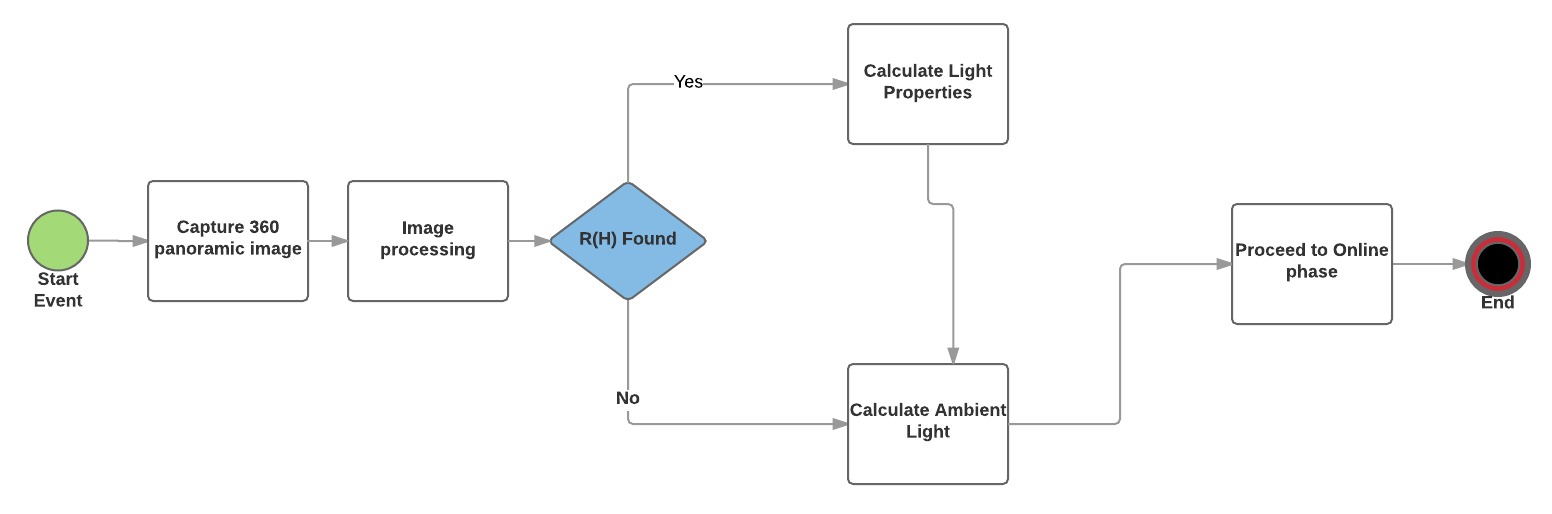
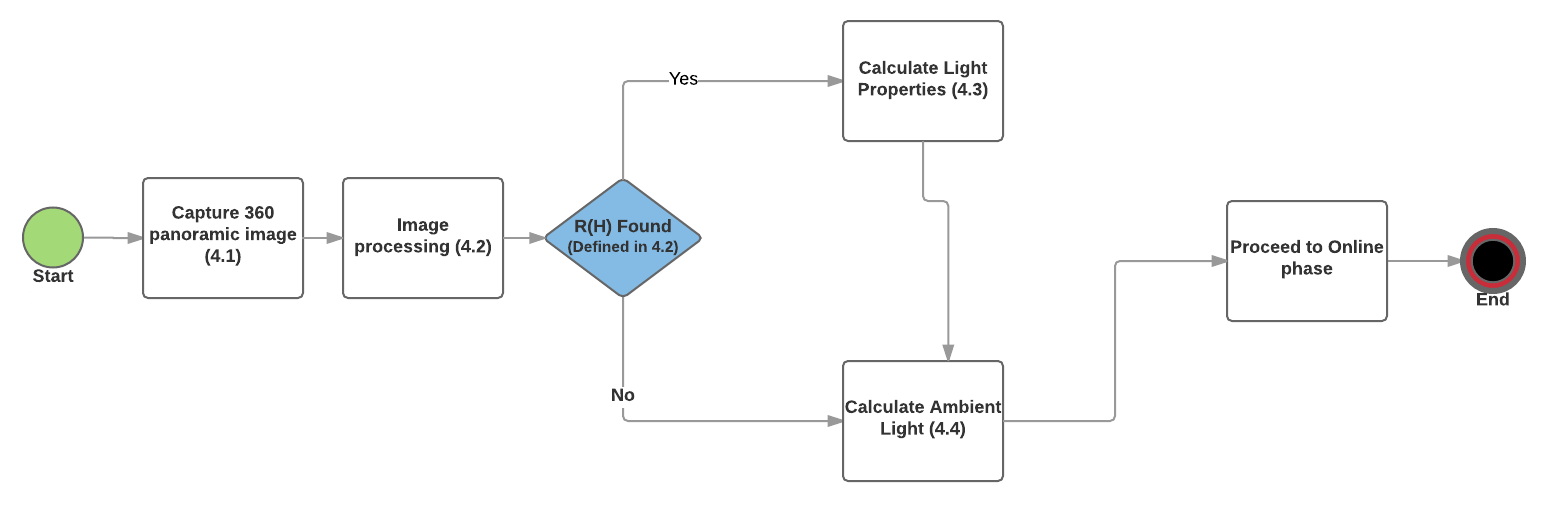
Separated main tex files into a file per section. Revision of the introduction and the method sections Revision of the flowchart image

diff --git a/Handins/Report/main.tex b/Handins/Report/main.tex
@@ -28,113 +28,22 @@
 \maketitle
 
 \section{Introduction}
-The rendering of virtual objects on current AR applications has a number of shortcomings in the state of the art. It is quite easy to tell that it’s a superimposed virtual object. There are many factors that come into play and give away the lack of feasibility of an AR object, such as marker jiggle, inaccurate depth cues, lack of occlusion from real life objects and incompatible lighting.
-The method proposed in this work addresses the latter problem, the non-matching light conditions of the virtual and real world. The method is based on the idea that a 360 photograph of the environment can give us a lot of information about the lighting conditions and that such 360 photographs are now simple to create on an average mobile device. From this 360 photograph it can be determined if the environment is outdoors by day or any other case of illumination. If the environment is indoors the light sources of the room will be approximated using the photo, if outdoors the sun will be assumed as the main source of light, and its position would be calculated using the clock, calendar and compass of the mobile device running the application. \newline
-Whatever the case, the method's output is a set of lights whose properties are a position relative to the camera, a rotation and an intensity.
-It's important to stress the fact that the method is proposed for mobile devices. There have been previous works, as detailed in the next section, that deal with the same problem but on computers. Mobile devices present advantages over computers for this task, but also the downside of generally lower processing power compared to computers. This decision comes from the ease of producing the 360 photographs locally, from the judgement that AR is better suited for mobile devices than computers (for mobility and ease of use reasons) and also to be able to exploit the devices geolocation hardware. Of course this doesn't mean that the method will only be applicable to mobile, there are also ways to adapt it to work on computers too.\newline
-The research question from which this method was originally envisioned is: "Can the accuracy of lighting in AR applications be improved using a mobile device to it's full potential?". What this means is that thanks to the many ways a smartphone or tablet can interact with the user and the environment we can know a lot about the surroundings. And this information could potentially be very useful to save computation time, which is the main downside to using mobile devices, their relatively lower computational capabilities.\newline
-The contributions of this method are:
-\begin{itemize}
-    \item An image-based method with which the lighting conditions of the full visible environment can be modeled
-    \item The use of the mobile device's geolocation hardware to enhance the light simulation with the knowledge of the current weather conditions and the position of the sun
-\end{itemize}
+\input{intro}
 
 
 \section{Related Work}
-Agusanto et al. proposed a similar method \cite{agusanto2003}. The main differences in the method they propose have to do mostly with the technologies used. Being already an old paper, their method was conceived for Augmented Reality on a computer, rather than on a smartphone. My choice of a smartphone comes with the downside of lower processing power, but with the great advantage of the different sensors available on the device. The method in the Agusanto paper infers the lighting conditions using hand-crafted HDR photographs of the real scene using highly reflective metal spheres in contrast with my proposition of using the 360 degree photograph on the device itself, which is a lot more accessible to an average consumer.\newline
-Pessoa\cite{pessoa2011} expanded on Agusanto's work and created the Real-Time Photorealistic Rendering of Synthetic Objects into Real Scenes (RPR-SORS) toolkit as an extension of the ARToolkit Augmented reality SDK. Although they use more modern techniques, such as cubemaps instead of HDR photographs, their approach still has the same differences than the Agusanto method.\newline
-There have been several methods to insert virtual objects into static photographs automatically with highly realistic results. One such example is the method by Karsh \cite{karsh2014} These kind of methods are not suitable for real- time applications, and they use a single view image to infer the lighting conditions. The method proposed here is more robust in the sense that it uses a 360 view of the environment to eliminate assumptions of what there is out of frame.\newline
-Xing\cite{xing2013} also devised a method to compose virtual objects into static photographs, focusing on outdoors scenes. The method is quite sophisticated, but a lot of the information fed to the light calculation functions involve manual input by the user. The proposed method is intended to work both for indoors and outdoors scenes, the main difference with the way outdoors scenes will be managed is that the method works automatically, without user intervention. This is accomplished by the usage of the mobile device's dedicated geolocation hardware. By using it, there is no need to assume anything or ask for any user input, the device will be able to tell a good approximation of the sun position using only the sensor's information.
+\input{relat}
 
 \section{Theoretical Framework}
-In this section a few technical concepts will be explored in order to make the proposed method and what it aims to accomplish more clear.
-
-\textbf{Augmented Reality}\newline
-As of yet, the definition of Augmented Reality that is most widely accepted is the one presented by Azuma\cite{azuma1997}. In this survey Augmented Reality (or AR for short) is defined as a software system that features a blend of real and virtual objects, the user can interact with it in real time and presents a 2D representation of a 3D world for both the real and virtual sides. A feature film that integrates real and virtual characters or objects is therefore strictly speaking not AR for example, because it's static content, the consumer cannot interact with it at all, let alone in real time.
-In order to combine real and virtual objects both worlds must be aligned, in the sense that they must share a common origin for both position and rotation. If the virtual objects present in the real scene are not aligned the feasibility of the whole composition is compromised. The tracking of real world features as a guideline for alignment in the virtual world is one of the challenges in the field of AR. There are many techniques that have been used, such as sensor-based tracking, that uses dedicated hardware to feed the software application the position and rotation information it needs; vision-based tracking, in which the position and orientation origin of the virtual world are determined by images recognized by a computer vision algorithm. These images are named fiducial markers and can be an artificial black and white image, a "natural" images (points, lines, shapes and/or textures) or even 3D objects. Other approaches involving both sensors and vision algorithms have also been used, if the reader is interested in learning more about tracking, Zhou's survey\cite{zhou2008} on tracking is a good resource.
-This method does not aim in any way to improve tracking for AR, current state-of-the-art methods will be used for that, but it's important to explain the concept a bit in order to settle the scope and expectations of the end result.
-
-\textbf{Sensors}\newline
-Most smartphones and tablets in the market nowadays have built-in sensors to measure many things that are helpful for application developers, such as motion, orientation and other environmental conditions. The ones that are relevant for this method are the following:\newline
-\textbf{Accelerometer}: This device measures proper acceleration relative to gravity. Its application in mobile development is to measure motion changes and to measure the device orientation relative to Earth's surface. It usually consists of 3 orthogonal axes. The output is given in m/s\textsuperscript{2} \newline
-\textbf{Gyroscope}: A sensor that is capable of measuring the rate of rotation around a particular axis. It serves the same purpose as the accelerometer, but mobile devices usually have both for more robust measurements. The output is given in rad/s. In the method these will be used to acquire the 360 panoramic photograph, making sure that the device is within the same pitch while capturing all the images that will be stitched together to make the panorama. \newline
-\textbf{Photometer}: There is a wide variability in terms of capacity of photometers across different devices, but the only measurement that is guaranteed is the ambient illuminance expressed in lx.  In the method it will be useful for detection of a noticeable change in ambient lighting, leading to a re-capture of the panorama. What exactly constitutes a noticeable change in ambient lighting will be determined through parameter tuning. \newline 
-\textbf{Magnetometer}: In terms of mobile devices it serves the purpose of a compass, it measures the device's orientation with respect to the Earth's magnetic poles. In mobile development it is useful to get the heading of the device expressed in degrees.\newline
-\textbf{GPS}: Measures the raw position of the device in three-dimensional Cartesian coordinates with origin on the center of the Earth. It can be used to determined where on planet Earth the device is located (Country, city, neighborhood, etc). It needs to have line of sight with no electromagnetic interference with at least 4 out of the 24 satellites in orbit that are used for GPS. \newline
+\input{theo}
 
 \section{Method}
-This section covers the steps needed to produce the wanted results. The input needed is a fiducial marker M to provide the object position in the real world; and a 3D mesh O which will be rendered in Augmented Reality. The output is a set of light sources L\textsubscript{i}, each one having a position, orientation, intensity, color and size. In order to complete the luminance (luma) analysis a 360 panoramic image is required, but it will be generated as a previous step, it is not necessary to have one beforehand. The entirety of the process is layed out in the flowchart in Figure 1, and each step is described in more detail afterwards.
+\input{method}
 
-\begin{figure}[H]
-  \centering
-  \setlength{\unitlength}{\textwidth} 
-    \begin{picture}(1,0.5)
-       \put(-0.1,0){\includegraphics[width=1.3\unitlength]{Figures/Flowchart.png}}
-       
-    \end{picture}
-    \caption{The method in a nutshell}
-\end{figure}
-
-\subsection{Panoramic image capture}
-In this work panoramic images are used as a tool, therefore it's not within the scope of the method to define a new way of capturing 360 images. The implementation will be based on the one by Chuang et al. \cite{ThreeSixty}
-In order to simplify the calculation of light parameters later on, a modification to their implementation will be done forcing the user to face north when beginning to take the panoramic capture.
-
-\subsection{Image processing}
-Once the panoramic image exist the first step in order to be able to analyze the luminance is to get rid of the chrominance information. This is achieved by desaturating the image. The contrast ratio has to be adjusted, so that the regions with high luminance are more clearly differentiable. The result of these steps is a black and white image with the rough shape of the light source. If the image ends up completely black it means there are no important visible light sources and ambient illumination alone would give a good enough result on the rendered model. A region of high luminance is defined as follows:
-\[
-    R(H) = \{p_{00}, p_{01}, ... , p_{mn}\}
-\]
- Where p\textsubscript{ij} is the pixel in the i,j position of the image. Such that 
-\[
-    L(p_{ij}) > 0.9 \times max(L(p_{ij})) 
-\]
-However if there are regions of high luminance they would be discovered with a fair amount of noise and artifacts, caused by clear objects, reflections of light sources on highly reflective surfaces, or even light sources that are so far away in the distance that don't really contribute an important amount of light to the area of interest. Therefore it's necessary to also add a relative size constraint to the definition. What constitutes an acceptable region size to deem the light source is not an easy question to answer. The best approach to face this problem is to define it as a percentage of the width and height of the overall image and tune the parameter in search for the best solution. The size constraint would therefore be:
-
-\[
-    width(R(H)) \times height(R(H)) \geq k \times W \times H
-\]
-Where k is the parameter to be tuned; W and H are the total image width and height.\newline
-
-These constraints also help keep the amount of lights to be processed within an acceptable range for a real-time application, even if the real environment has many light sources a simplification of them is necessary when modelling them to keep the application feasible. Once the relevant light sources have been identified their properties need to be calculated.
-
-\subsection{Calculate light properties}
-The properties needed to calculate for each light are position, orientation, intensity, size and color. In the real world there is no way to calculate the position and size at the same time, because at least one of them would have to be known. Fortunately in the virtual world this is not necessary, as long as it is consistent, for the area size of the light the pixel measures can be used. With this in mind all the other properties can be calculated.
-
-\begin{enumerate}
-\item Width and height: The pixel measures will be used for this, they can me determined from the size constraint in the previous step.
-\item Position: It is posible to calculate the distance from and object to a camera lens knowing a few parameters from the lens, namely the focal lenght and the sensor size. In Android these values are easily obtainable through the ExifInterface class. In iOS the values are publicly known per device family, so it's possible to create a lookup table with the values and have the application ask what device it's running on to match the necessary set of values. The calculation is then done as follows:
-\[
-    d(L_i) = \frac{ f \times h_i}{sensorHeight}
-\]
-\item  Orientation: Since the user was enforced to capture the environment starting from the north and the environment is the entire 360 degrees it is easy to map the pixel width to the angle of incidence of the light source. We can for example define the following ratio to calculate the angle:
-\[
-    \phi = \frac{pos(L_i)_x \times 180}{imageWidth \times 0.5}
-\]
-\item Color: Storing both versions of the panorama, one in full color and another one after processing will allow us to have both the color and the luminance information. Once a light source is detected, the equivalente area in the color image can be averaged to determine the color of the light source.
-\end{enumerate}
-
-\subsection{Calculate ambient light}
-Since the data from the device's sensors are available something more involved than having a default value of ambient illumination for the entire scene. Ambient illumination when no visible light sources are present is more often than not due to sunlight, be it in an outdoors scene or coming in from a window somewhere. There are ways \cite{solar} to calculate the sun position in spherical coordinates using the latitude, longitude, time of the day and day of the year of the observer. This information can be easily retrieved using the devices GPS, clock and calendar. The direction in which the sunlight is affecting the scene can be used in a per-vertex illumination shader to adjust the amount of ambient light in a specific vertex of the virtual object. This contribution can be done using lambertian diffuse contribution:
-\[
-    I_a = K_a \times (N \cdot L)
-\]
-Where $K_a$ is the maximum ambient contribution, N is the vertex normal and L is the light direction vector, normalized.
 \section{Expected results}
-In this section the measure of success and the scope of the method will be described. In terms of scope the aim of the method is to produce plausible lighting for Augmented Reality applications, and thus increase the sense of realism of the composed graphics. This does not mean that imagery that would for all practical purposes be indistinguishable from reality will be achieved. As said earlier, the non-matching lighting is only one of the problems with current AR graphics. In order to achieve complete realism all the other problems would have to be tackled as well, this includes occlusion from real objects as the most prominent one, but also the shadows of real objects not affecting the virtual ones at all. The method will also not attempt to improve other aspects of AR, such as tracking. The method comprises an offline and an online phase, offline being the acquisition of the 360 panorama and it's analysis for calculation; online is the actual rendering. It is also desirable and expected that the offline phase can be completed within a reasonable time frame on a mobile device, in terms of usability this should be no more than 1 minute.\newline
-Since the final product is a graphic on a screen, an image, it's somewhat difficult to define a measure of success, due to the inherent subjective nature of image appreciation. It can be said that the method successfully converged if in the final image the synthetic objects are hard to tell from the real ones, if formed on a line on a still image. Hard to tell meaning that some scrutiny and reflection is necessary when looking at a screen capture of the application. If an average technology consumer is able to immediately tell which of the objects are synthetic and which are real the method will then have failed. To explain the measure better in Figure 2 we can see three objects, 2 real, 1 synthetic, from an AR included with the Vuforia library. Figure 3 shows the same array of objects, again the same 2 real and 1 synthetic, but in this case the synthetic object having been inserted with hand tuned lighting. It can be appreciated that it is harder to differentiate the virtual object in the second image than on the first one.
-\begin{figure}
-\centering
-\includegraphics[width=0.6\textwidth]{Figures/fake.jpg}
-\caption{Default lighting, making the virtual object stand out}
-\includegraphics[width=0.6\textwidth]{Figures/realish.jpg}
-\caption{Adjusted lighting, giving a more believable look}
-\end{figure}
-
+\input{expected}
 
 \clearpage
-
-\section{Conclusion}
-The above discussion has highlighted the potential benefits of using a mobile device's hardware in a smart way to obtain information about the environment and be able to produce a more convincing lighting estimation than what's currently available in AR applications. Unlike previous works reviewed, this method is conceived for mobile devices and real-time applications, while also being as user-friendly as possible, in the sense of keeping user interaction to a bear minimum and obtaining information that's already available through the hardware. 
 
 \bibliographystyle{plain}
 \nocite{*}

diff --git a/Handins/Report/method.tex b/Handins/Report/method.tex
@@ -1,0 +1,77 @@
+%!TEX root = ../main.tex
+
+This section covers the steps needed to produce the wanted results. The input needed is a fiducial marker M to provide the object position in the real world; and a 3D mesh O which will be rendered in Augmented Reality. The output is a set of light sources L\textsubscript{i}, each one having a position, orientation, intensity, color, type and size. In order to complete the luminance (luma) analysis a 360 panoramic image is required, but it will be generated as a previous step, it is not necessary to have one beforehand. The entirety of the process is layed out in the flowchart in Figure 1, and each step is described in more detail afterwards.
+
+\begin{figure}[H]
+  \centering
+  \setlength{\unitlength}{\textwidth} 
+    \begin{picture}(1,0.5)
+       \put(-0.1,0){\includegraphics[width=1.3\unitlength]{Figures/Flowchart.png}}
+       
+    \end{picture}
+    \caption{The method in a nutshell}
+\end{figure}
+
+\subsection{Panoramic image capture}
+In this work panoramic images are used as a tool, therefore it's not within the scope of the method to define a new way of capturing 360 images. The implementation will be based on the one by Chuang et al. \cite{ThreeSixty}
+M will provide the origin of the virtual world for placing and orienting O within it. In order for the lights to be mapped to the same position as M the user will be asked to place the marker in the desired position and start capturing the environment while the marker is centered in frame. This will also simplify calculations of light orientations later on.
+
+\subsection{Image processing}
+Once the panoramic image exist the first step in order to be able to analyze the luminance is to get rid of the chromatic information. This is achieved with the following equation:
+\[
+    L(R_{ij},G_{ij},B_{ij}) = 0,2126 \times R_{ij} + 0,7152 \times G_{ij} + 0,0722 \times B_{ij}; \quad \forall \  P_{ij}
+\]
+Where L is the luminance obtained at D65 white point, which corresponds roughly to the average midday light in Western Europe / Northern Europe; and P is the pixel in the i,j position of the image \newline
+The contrast ratio has to be adjusted, so that the regions with high luminance are more clearly differentiable. 
+\[
+    g(i,j) = \alpha \times f(i,j) + \beta
+\]
+Where g(i,j) is the adjusted image, f(i,j) is the original grayscale image and $\alpha$ and $\beta$ are the brightness and contrast constants, determined by parameter tuning.
+In order to prevent outlier pixels and noise from causing false positives, let g(i,j) be normalized like so:
+\[
+    L(P_{ij}) = \frac{ 2 \times P_{ij} }{min_{ij} + max_{ij}}
+\]
+Where min\textsubscript{ij} and max\textsubscript{ij} are the overall minimum and maximum luminance values in the image. 
+\newline
+The result of these steps is a black and white image with the rough shape of the light source. If the image ends up completely black it means there are no important visible light sources and ambient illumination alone would give a good enough result on the rendered model. A region of high luminance is defined as follows:
+\[
+    R(H) = \{p_{00}, p_{01}, ... , p_{mn}\}
+\]
+ Where p\textsubscript{ij} is the pixel in the i,j position of the image. Such that 
+\[
+    L(p_{ij}) > 0.9 \times max(L(p_{ij})) 
+\]
+However if there are regions of high luminance they would be discovered with a fair amount of noise and artifacts, caused by clear objects, reflections of light sources on highly reflective surfaces, or even light sources that are so far away in the distance that don't really contribute an important amount of light to the area of interest. Therefore it's necessary to also add a relative size constraint to the definition. What constitutes an acceptable region size to deem the light source is not an easy question to answer. The best approach to face this problem is to define it as a percentage of the width and height of the overall image and tune the parameter in search for the best solution. The size constraint would therefore be:
+
+\[
+    width(R(H)) \times height(R(H)) \geq k \times W \times H
+\]
+Where k is the parameter to be tuned; W and H are the total image width and height.\newline
+
+These constraints also help keep the amount of lights to be processed within an acceptable range for a real-time application, even if the real environment has many light sources a simplification of them is necessary when modelling them to keep the application feasible. Once the relevant light sources have been identified their properties need to be calculated.
+
+\subsection{Calculate light properties}
+The properties needed to calculate for each light are position, orientation, intensity, size and color. In the real world it is not trivial to calculate the position and size at the same time, because at least one of them would have to be known. Fortunately in the virtual world this is not necessary, as long as it is consistent, for the area size of the light the pixel measures can be used. With this in mind all the other properties can be calculated.
+
+\begin{enumerate}
+\item Width and height: The pixel measures will be used for this, they can me determined from the size constraint in the previous step.
+\item Position: It is posible to calculate the distance from and object to a camera lens knowing a few parameters from the lens, namely the focal lenght and the sensor size. In Android these values are easily obtainable through the ExifInterface class. In iOS the values are publicly known per device family, so it's possible to create a lookup table with the values and have the application ask what device it's running on to match the necessary set of values. The calculation is then done as follows:
+\[
+    d(L_i) = \frac{ f \times h_i}{sensorHeight}
+\]
+\item  Orientation: Since the user was enforced to capture the environment starting from the north and the environment is the entire 360 degrees it is easy to map the pixel width to the angle of incidence of the light source. We can for example define the following ratio to calculate the angle:
+\[
+    \phi = \frac{pos(L_i)_x \times 180}{imageWidth \times 0.5}
+\]
+\item Color: Storing both versions of the panorama, one in full color and another one after processing will allow us to have both the color and the luminance information. Once a light source is detected, the equivalente area in the color image can be averaged to determine the color of the light source.
+\item Type: There are two main shapes of lamps in the real world, quadrilateral and elliptical. It is indeed possible to find lights with more complex shapes, however, as long as the area of emission is the same, simplifying it to a quadrilateral or elliptical shape yields the same result for the purposes of the method.
+\newline 
+Determining if the light is a spotlight or an area light will be done through the shape. Elliptical lights will be tagged spotlights and quadrilateral lights area light. Shape detection will be carried out using OpenCV contour detection and counting the vertices of the contour. Even if in the real world the light is a perfect square and the camera is facing it with no parallax it is expected that,  due to artifacts and noise, the function may not find exactly 4 vertices. This is not a big problem, because the number of vertices needed to create smooth circle range in the dozens. So adjusting a threshold value is a simple and acceptable solution.
+\end{enumerate}
+
+\subsection{Calculate ambient light}
+Since the data from the device's sensors are available something more involved than having a default value of ambient illumination for the entire scene. Ambient illumination when no visible light sources are present is more often than not due to sunlight, be it in an outdoors scene or coming in from a window somewhere. There are ways \cite{solar} to calculate the sun position in spherical coordinates using the latitude, longitude, time of the day and day of the year of the observer. This information can be easily retrieved using the devices GPS, clock and calendar. The direction in which the sunlight is affecting the scene can be used in a per-vertex illumination shader to adjust the amount of ambient light in a specific vertex of the virtual object. This contribution can be done using lambertian diffuse contribution:
+\[
+    I_a = K_a \times (N \cdot L)
+\]
+Where $K_a$ is the maximum ambient contribution, N is the vertex normal and L is the light direction vector, normalized.

diff --git a/Handins/Report/theo.tex b/Handins/Report/theo.tex
@@ -1,0 +1,16 @@
+%!TEX root = ../main.tex
+
+In this section a few technical concepts will be explored in order to make the proposed method and what it aims to accomplish more clear.
+
+\textbf{Augmented Reality}\newline
+As of yet, the definition of Augmented Reality that is most widely accepted is the one presented by Azuma\cite{azuma1997}. In this survey Augmented Reality (or AR for short) is defined as a software system that features a blend of real and virtual objects, the user can interact with it in real time and presents a 2D representation of a 3D world for both the real and virtual sides. A feature film that integrates real and virtual characters or objects is therefore strictly speaking not AR for example, because it's static content, the consumer cannot interact with it at all, let alone in real time.
+In order to combine real and virtual objects both worlds must be aligned, in the sense that they must share a common origin for both position and rotation. If the virtual objects present in the real scene are not aligned the feasibility of the whole composition is compromised. The tracking of real world features as a guideline for alignment in the virtual world is one of the challenges in the field of AR. There are many techniques that have been used, such as sensor-based tracking, that uses dedicated hardware to feed the software application the position and rotation information it needs; vision-based tracking, in which the position and orientation origin of the virtual world are determined by images recognized by a computer vision algorithm. These images are named fiducial markers and can be an artificial black and white image, a "natural" images (points, lines, shapes and/or textures) or even 3D objects. Other approaches involving both sensors and vision algorithms have also been used, if the reader is interested in learning more about tracking, Zhou's survey\cite{zhou2008} on tracking is a good resource.
+This method does not aim in any way to improve tracking for AR, current state-of-the-art methods will be used for that, but it's important to explain the concept a bit in order to settle the scope and expectations of the end result.
+
+\textbf{Sensors}\newline
+Most smartphones and tablets in the market nowadays have built-in sensors to measure many things that are helpful for application developers, such as motion, orientation and other environmental conditions. The ones that are relevant for this method are the following:\newline
+\textbf{Accelerometer}: This device measures proper acceleration relative to gravity. Its application in mobile development is to measure motion changes and to measure the device orientation relative to Earth's surface. It usually consists of 3 orthogonal axes. The output is given in m/s\textsuperscript{2} \newline
+\textbf{Gyroscope}: A sensor that is capable of measuring the rate of rotation around a particular axis. It serves the same purpose as the accelerometer, but mobile devices usually have both for more robust measurements. The output is given in rad/s. In the method these will be used to acquire the 360 panoramic photograph, making sure that the device is within the same pitch while capturing all the images that will be stitched together to make the panorama. \newline
+\textbf{Photometer}: There is a wide variability in terms of capacity of photometers across different devices, but the only measurement that is guaranteed is the ambient illuminance expressed in lx.  In the method it will be useful for detection of a noticeable change in ambient lighting, leading to a re-capture of the panorama. What exactly constitutes a noticeable change in ambient lighting will be determined through parameter tuning. \newline 
+\textbf{Magnetometer}: In terms of mobile devices it serves the purpose of a compass, it measures the device's orientation with respect to the Earth's magnetic poles. In mobile development it is useful to get the heading of the device expressed in degrees.\newline
+\textbf{GPS}: Measures the raw position of the device in three-dimensional Cartesian coordinates with origin on the center of the Earth. It can be used to determined where on planet Earth the device is located (Country, city, neighborhood, etc). It needs to have line of sight with no electromagnetic interference with at least 4 out of the 24 satellites in orbit that are used for GPS.

diff --git a/Handins/Report/intro.tex b/Handins/Report/intro.tex
@@ -1,0 +1,12 @@
+%!TEX root = ../main.tex
+
+The rendering of virtual objects on current AR applications has a number of shortcomings in the state of the art. It is quite easy to tell that it’s a superimposed virtual object. There are many factors that come into play and give away the lack of feasibility of an AR object, such as marker jiggle, inaccurate depth cues, lack of occlusion from real life objects and incompatible lighting.
+The method proposed in this work addresses the latter problem, the non-matching light conditions of the virtual and real world. The method is based on the idea that a 360 photograph of the environment can give us a lot of information about the lighting conditions and that such 360 photographs are now simple to create on an average mobile device. From this 360 photograph it can be determined if the environment is outdoors by day or any other case of illumination. If the environment is indoors the light sources of the room will be approximated using the photo, if outdoors the sun will be assumed as the main source of light, and its position would be calculated using the clock, calendar and compass of the mobile device running the application. \newline
+Whatever the case, the method's output is a set of lights whose properties are a position relative to the camera, a rotation, color, type of light (spotlight or area light) and an intensity.
+It's important to stress the fact that the method is proposed for mobile devices. There have been previous works, as detailed in the next section, that deal with the same problem but on computers. Mobile devices present advantages over computers for this task, but also the downside of generally lower processing power compared to computers. This decision comes from the ease of producing the 360 photographs locally, from the judgement that AR is better suited for mobile devices than computers (for mobility and ease of use reasons) and also to be able to exploit the devices geolocation hardware. Of course this doesn't mean that the method will only be applicable to mobile, there are also ways to adapt it to work on computers too.\newline
+The research question from which this method was originally envisioned is: "Can the accuracy of lighting in AR applications be improved using a mobile device to it's full potential?". What this means is that thanks to the many ways a smartphone or tablet can interact with the user and the environment we can know a lot about the surroundings. And this information could potentially be very useful to save computation time, which is the main downside to using mobile devices, their relatively lower computational capabilities.\newline
+The contributions of this method are:
+\begin{itemize}
+    \item An image-based method with which the lighting conditions of the full visible environment can be modeled
+    \item The use of the mobile device's geolocation hardware to enhance the light simulation with the knowledge of the current weather conditions and the position of the sun
+\end{itemize}

diff --git a/Handins/Report/expected.tex b/Handins/Report/expected.tex
@@ -1,0 +1,11 @@
+%!TEX root = ../main.tex
+
+In this section the measure of success and the scope of the method will be described. In terms of scope the aim of the method is to produce plausible lighting for Augmented Reality applications, and thus increase the sense of realism of the composed graphics. This does not mean that imagery that would for all practical purposes be indistinguishable from reality will be achieved. As said earlier, the non-matching lighting is only one of the problems with current AR graphics. In order to achieve complete realism all the other problems would have to be tackled as well, this includes occlusion from real objects as the most prominent one, but also the shadows of real objects not affecting the virtual ones at all. The method will also not attempt to improve other aspects of AR, such as tracking. The method comprises an offline and an online phase, offline being the acquisition of the 360 panorama and it's analysis for calculation; online is the actual rendering. It is also desirable and expected that the offline phase can be completed within a reasonable time frame on a mobile device, in terms of usability this should be no more than 1 minute.\newline
+Since the final product is a graphic on a screen, an image, it's somewhat difficult to define a measure of success, due to the inherent subjective nature of image appreciation. It can be said that the method successfully converged if in the final image the synthetic objects are hard to tell from the real ones, if formed on a line on a still image. Hard to tell meaning that some scrutiny and reflection is necessary when looking at a screen capture of the application. If an average technology consumer is able to immediately tell which of the objects are synthetic and which are real the method will then have failed. To explain the measure better in Figure 2 we can see three objects, 2 real, 1 synthetic, from an AR included with the Vuforia library. Figure 3 shows the same array of objects, again the same 2 real and 1 synthetic, but in this case the synthetic object having been inserted with hand tuned lighting. It can be appreciated that it is harder to differentiate the virtual object in the second image than on the first one.
+\begin{figure}
+\centering
+\includegraphics[width=0.6\textwidth]{Figures/fake.jpg}
+\caption{Default lighting, making the virtual object stand out}
+\includegraphics[width=0.6\textwidth]{Figures/realish.jpg}
+\caption{Adjusted lighting, giving a more believable look}
+\end{figure}

diff --git a/Handins/Report/relat.tex b/Handins/Report/relat.tex
@@ -1,0 +1,6 @@
+%!TEX root = ../main.tex
+
+Agusanto et al. proposed a similar method \cite{agusanto2003}. The main differences in the method they propose have to do mostly with the technologies used. Being already an old paper, their method was conceived for Augmented Reality on a computer, rather than on a smartphone. My choice of a smartphone comes with the downside of lower processing power, but with the great advantage of the different sensors available on the device. The method in the Agusanto paper infers the lighting conditions using hand-crafted HDR photographs of the real scene using highly reflective metal spheres in contrast with my proposition of using the 360 degree photograph on the device itself, which is a lot more accessible to an average consumer.\newline
+Pessoa\cite{pessoa2011} expanded on Agusanto's work and created the Real-Time Photorealistic Rendering of Synthetic Objects into Real Scenes (RPR-SORS) toolkit as an extension of the ARToolkit Augmented reality SDK. Although they use more modern techniques, such as cubemaps instead of HDR photographs, their approach still has the same differences than the Agusanto method.\newline
+There have been several methods to insert virtual objects into static photographs automatically with highly realistic results. One such example is the method by Karsh \cite{karsh2014} These kind of methods are not suitable for real- time applications, and they use a single view image to infer the lighting conditions. The method proposed here is more robust in the sense that it uses a 360 view of the environment to eliminate assumptions of what there is out of frame.\newline
+Xing\cite{xing2013} also devised a method to compose virtual objects into static photographs, focusing on outdoors scenes. The method is quite sophisticated, but a lot of the information fed to the light calculation functions involve manual input by the user. The proposed method is intended to work both for indoors and outdoors scenes, the main difference with the way outdoors scenes will be managed is that the method works automatically, without user intervention. This is accomplished by the usage of the mobile device's dedicated geolocation hardware. By using it, there is no need to assume anything or ask for any user input, the device will be able to tell a good approximation of the sun position using only the sensor's information.
